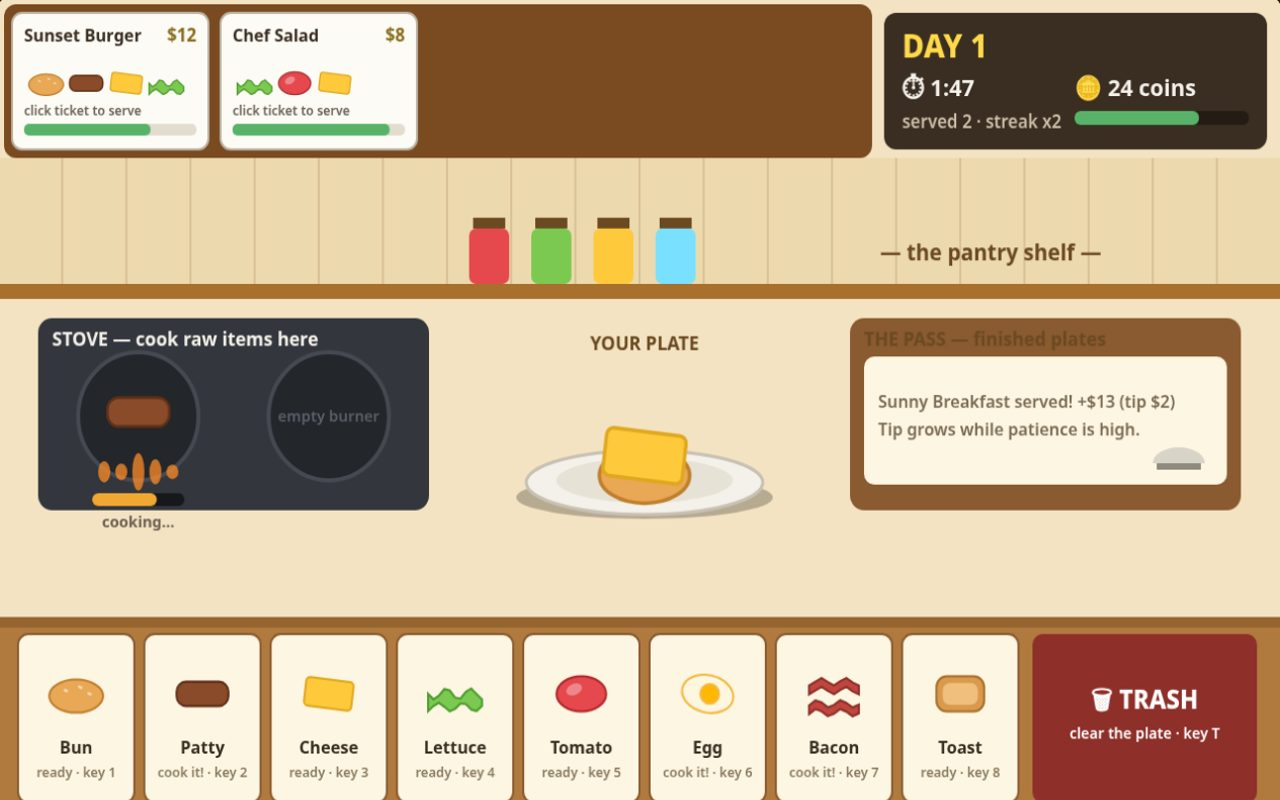
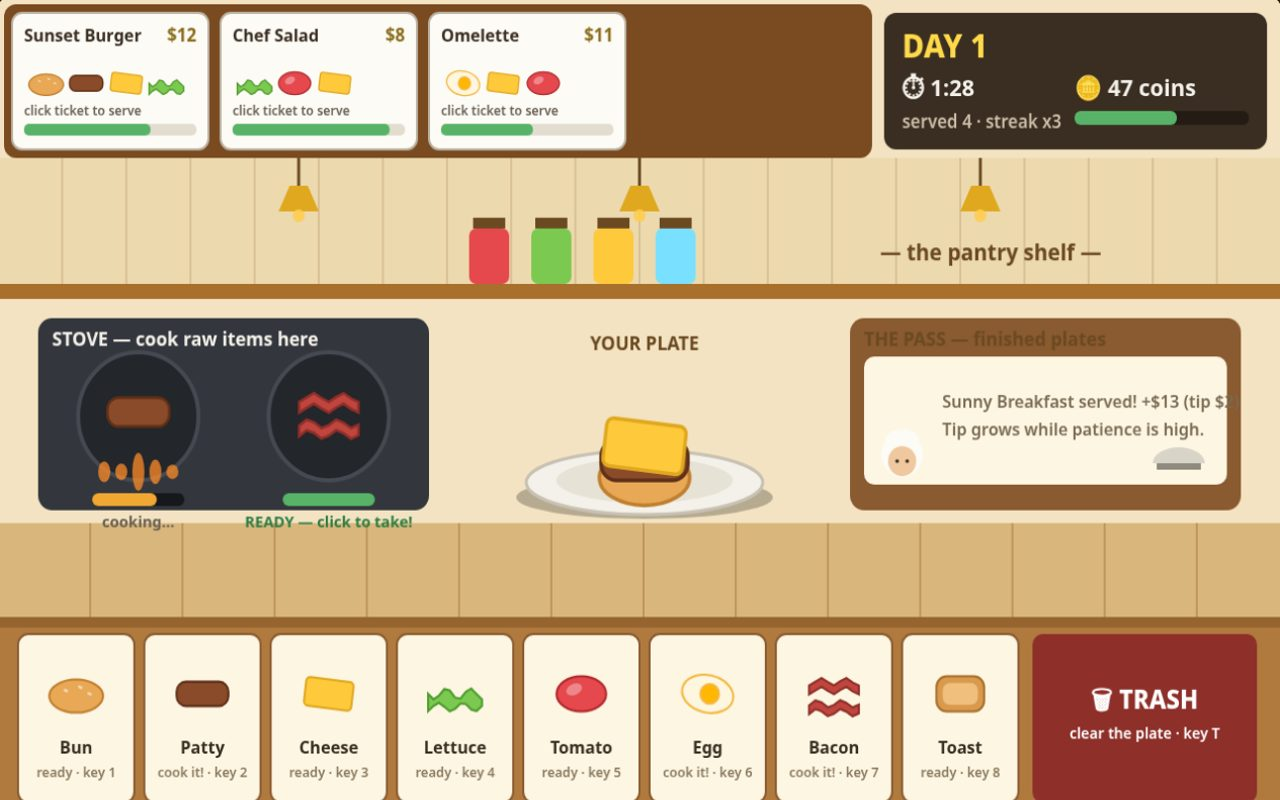
v2: fifth dish (Omelette), lamps, floor, chef at the pass, busier screenshots

diff --git a/game/js/draw.js b/game/js/draw.js
@@ -98,7 +98,7 @@ function drawPlateStack(ctx, plate) {
   ctx.beginPath(); ctx.ellipse(x, y + 24, 88, 21, 0, 0, 7); ctx.fill();
   // layers stack upward in the order they were added
   plate.forEach((item, i) => {
-    const ly = y + 16 - i * 15;
+    const ly = y + 18 - i * 13;
     if (item.id === 'bun' && i === plate.length - 1 && plate.length > 1) {
       // a bun on top of a stack is the dome lid
       ctx.fillStyle = INGREDIENTS.bun.color; ctx.strokeStyle = INGREDIENTS.bun.dark; ctx.lineWidth = 2;
@@ -172,6 +172,15 @@ function drawKitchen(ctx, state, now) {
   ctx.strokeStyle = 'rgba(160,125,70,.25)'; ctx.lineWidth = 2;
   for (let x = 0; x < VIEW.w; x += 64) { ctx.beginPath(); ctx.moveTo(x, 150); ctx.lineTo(x, 280); ctx.stroke(); }
   ctx.fillStyle = '#a96f2c'; ctx.fillRect(0, 268, VIEW.w, 14);
+  // hanging lamps over the kitchen
+  [300, 640, 980].forEach(lx => {
+    ctx.strokeStyle = '#6b4a22'; ctx.lineWidth = 3;
+    ctx.beginPath(); ctx.moveTo(lx, 150); ctx.lineTo(lx, 176); ctx.stroke();
+    ctx.fillStyle = '#e0a81e';
+    ctx.beginPath(); ctx.moveTo(lx - 20, 200); ctx.lineTo(lx + 20, 200); ctx.lineTo(lx + 9, 176); ctx.lineTo(lx - 9, 176); ctx.closePath(); ctx.fill();
+    ctx.fillStyle = 'rgba(255,205,80,.9)';
+    ctx.beginPath(); ctx.arc(lx, 204, 6, 0, 7); ctx.fill();
+  });
   // jars on the shelf
   ['#e5484d', '#7bc950', '#ffc93c', '#7ae0ff'].forEach((c, i) => {
     const jx = 470 + i * 62;
@@ -213,8 +222,18 @@ function drawKitchen(ctx, state, now) {
   ctx.fillStyle = '#6b4a22'; ctx.font = '700 18px system-ui';
   ctx.fillText('THE PASS — finished plates', ps.x + 14, ps.y + 26);
   ctx.font = '600 16.5px system-ui'; ctx.fillStyle = '#7a6a52';
-  ctx.fillText(state.passNote, ps.x + 28, ps.y + 84);
-  ctx.fillText('Tip grows while patience is high.', ps.x + 28, ps.y + 110);
+  ctx.fillText(state.passNote, ps.x + 92, ps.y + 84);
+  ctx.fillText('Tip grows while patience is high.', ps.x + 92, ps.y + 110);
+  // the chef, watching the pass
+  ctx.fillStyle = '#fdfbf6';
+  ctx.beginPath(); ctx.arc(ps.x + 52, ps.y + 128, 21, 0, 7); ctx.fill();
+  ctx.fillStyle = '#f0c8a0';
+  ctx.beginPath(); ctx.arc(ps.x + 52, ps.y + 134, 14, 0, 7); ctx.fill();
+  ctx.fillStyle = '#fdfbf6';
+  ctx.beginPath(); ctx.ellipse(ps.x + 52, ps.y + 114, 17, 10, 0, Math.PI, 0); ctx.closePath(); ctx.fill();
+  ctx.fillRect(ps.x + 35, ps.y + 112, 34, 6);
+  ctx.fillStyle = '#3a2e22';
+  ctx.beginPath(); ctx.arc(ps.x + 47, ps.y + 134, 1.8, 0, 7); ctx.arc(ps.x + 57, ps.y + 134, 1.8, 0, 7); ctx.fill();
   // service bell
   ctx.fillStyle = '#d9d4c8'; ctx.beginPath(); ctx.ellipse(ps.x + ps.w - 62, ps.y + ps.h - 44, 26, 15, 0, Math.PI, 0); ctx.closePath(); ctx.fill();
   ctx.fillStyle = '#8f8a7d'; ctx.fillRect(ps.x + ps.w - 84, ps.y + ps.h - 44, 44, 6);
@@ -222,6 +241,11 @@ function drawKitchen(ctx, state, now) {
   // plate zone label
   ctx.fillStyle = '#6b4a22'; ctx.font = '700 18px system-ui'; ctx.textAlign = 'center';
   ctx.fillText('YOUR PLATE', LAYOUT.plate.x, 330);
+
+  // floor boards between the kitchen block and the counter
+  ctx.fillStyle = '#d9b77c'; ctx.fillRect(0, 492, VIEW.w, 88);
+  ctx.strokeStyle = 'rgba(150,101,47,.4)'; ctx.lineWidth = 2;
+  for (let x = 0; x < VIEW.w; x += 92) { ctx.beginPath(); ctx.moveTo(x, 492); ctx.lineTo(x, 580); ctx.stroke(); }
 
   // counter (wood) + bins
   ctx.fillStyle = '#b07a3f'; ctx.fillRect(0, 580, VIEW.w, 220);

diff --git a/game/js/game.js b/game/js/game.js
@@ -204,13 +204,18 @@ function setupShot(name) {
   if (name === 'start') { state.mode = 'title'; return; }
   state.mode = 'play';
   if (name === 'play') {
-    state.timeLeft = 107; state.coins = 24; state.served = 2; state.streak = 2;
+    state.timeLeft = 88; state.coins = 47; state.served = 4; state.streak = 3;
     state.tickets = [
       { dish: 'burger', patience: 33, maxPatience: 45 },
       { dish: 'salad', patience: 41, maxPatience: 45 },
+      { dish: 'omelette', patience: 24, maxPatience: 45 },
     ];
-    state.plate = [{ id: 'bun', state: 'raw' }, { id: 'cheese', state: 'raw' }];
+    state.plate = [
+      { id: 'bun', state: 'raw' }, { id: 'patty', state: 'cooked' },
+      { id: 'cheese', state: 'raw' },
+    ];
     state.burners[0] = { id: 'patty', t: 4.2, state: 'cooking', cookTime: 6, burnTime: 5, burnT: 0 };
+    state.burners[1] = { id: 'bacon', t: 5, state: 'ready', cookTime: 5, burnTime: 4, burnT: 0 };
     state.passNote = 'Sunny Breakfast served! +$13 (tip $2)';
   } else if (name === 'serve') {
     state.timeLeft = 96; state.coins = 36; state.served = 3; state.streak = 3;

diff --git a/game/js/recipes.js b/game/js/recipes.js
@@ -24,6 +24,7 @@ const RECIPES = {
   breakfast: { name: 'Sunny Breakfast', price: 11, items: ['toast', 'egg', 'bacon'] },
   blt:       { name: 'Garden BLT',      price: 10, items: ['toast', 'bacon', 'lettuce', 'tomato'] },
   salad:     { name: 'Chef Salad',      price: 8,  items: ['lettuce', 'tomato', 'cheese'] },
+  omelette:  { name: 'Omelette', price: 11, items: ['egg', 'cheese', 'tomato'] },
 };
 
 const RECIPE_KEYS = Object.keys(RECIPES);
